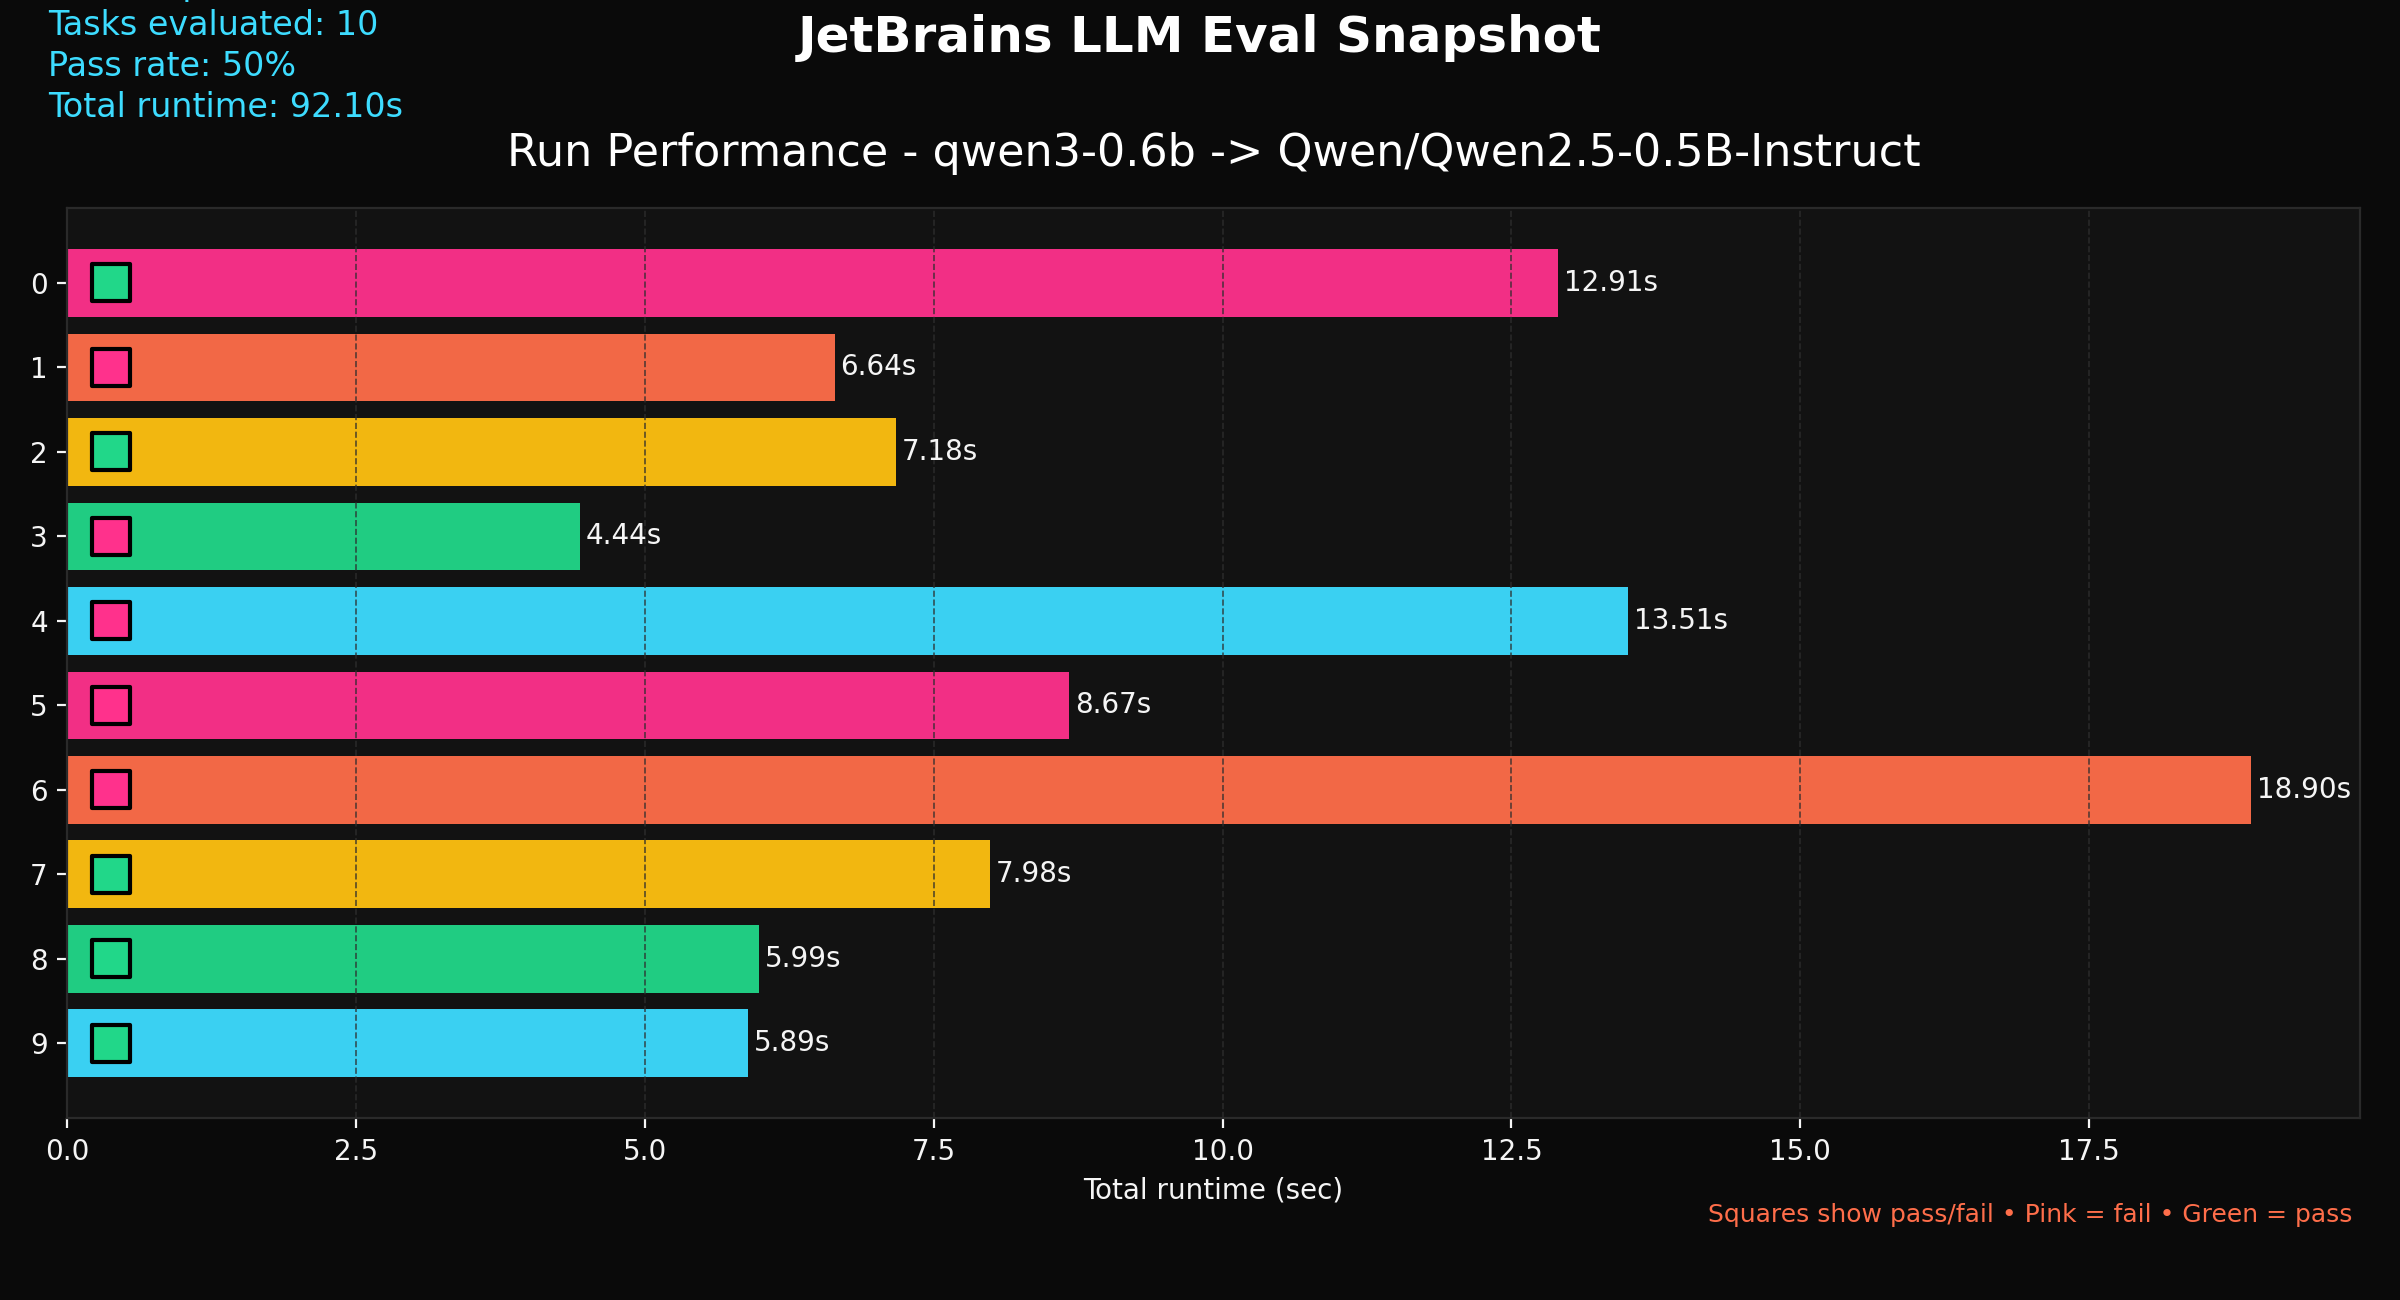
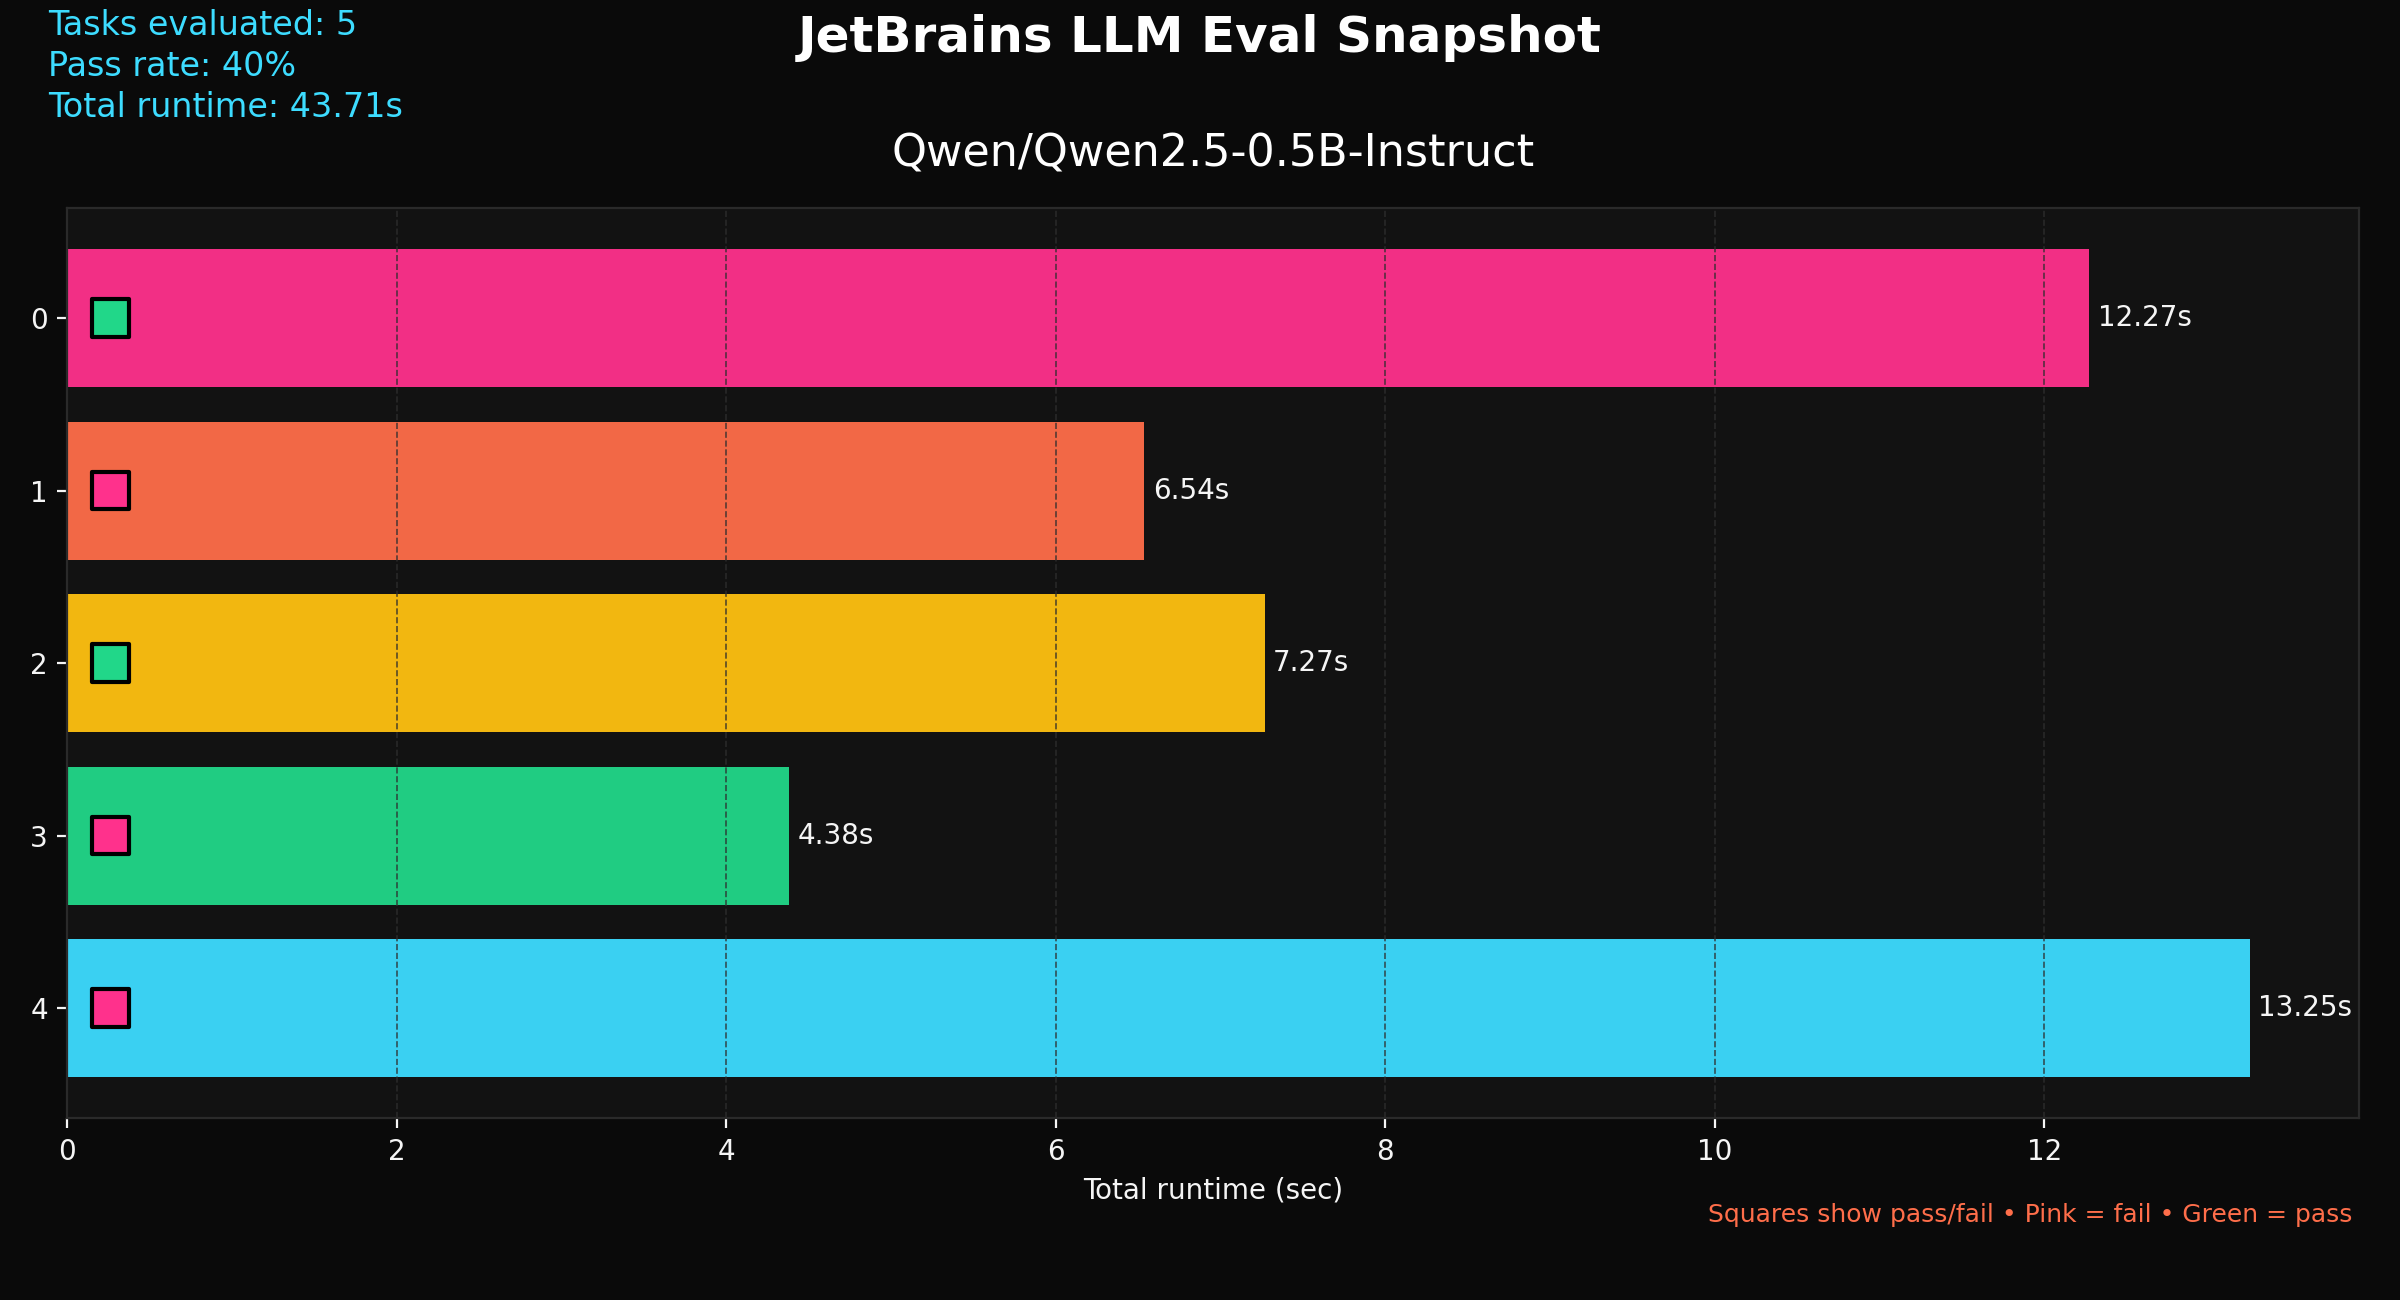
update the visualization

diff --git a/src/visualize_results.py b/src/visualize_results.py
@@ -34,10 +34,6 @@ def infer_model_name(results: List[dict]) -> Optional[str]:
     resolved: Optional[str] = None
     alias: Optional[str] = None
     for entry in results:
-        if alias is None:
-            alias_raw = entry.get("model_alias")
-            if isinstance(alias_raw, str) and alias_raw.strip():
-                alias = alias_raw.strip()
         for key in ("model", "model_id", "model_name"):
             value = entry.get(key)
             if isinstance(value, str) and value.strip():
@@ -53,8 +49,12 @@ def infer_model_name(results: List[dict]) -> Optional[str]:
                         if resolved is None:
                             resolved = value.strip()
                         break
-    if resolved and alias and alias != resolved:
-        return f"{alias} -> {resolved}"
+        if alias is None:
+            alias_raw = entry.get("model_alias")
+            if isinstance(alias_raw, str) and alias_raw.strip():
+                alias = alias_raw.strip()
+    if resolved and "/" not in resolved and alias and "/" in alias:
+        return alias
     return resolved or alias
 
 
@@ -85,10 +85,10 @@ def plot_results(
         task_ids, runtime, color=color_cycle, edgecolor="none", alpha=0.95
     )
     ax_runtime.set_xlabel("Total runtime (sec)", color="#F5F5F5")
-    title = "Run Performance"
     if model_name:
-        title = f"{title} - {model_name}"
-    ax_runtime.set_title(title, color="#FFFFFF", pad=15, fontsize=16)
+        ax_runtime.set_title(model_name, color="#FFFFFF", pad=15, fontsize=16)
+    else:
+        ax_runtime.set_title("", color="#FFFFFF", pad=15, fontsize=16)
     ax_runtime.invert_yaxis()
     ax_runtime.grid(
         True, axis="x", linestyle="--", linewidth=0.6, color="#2E2E2E", alpha=0.8
@@ -119,13 +119,18 @@ def plot_results(
 
     pass_rate = sum(passed) / len(passed) if passed else 0.0
     total_runtime = sum(runtime)
-    model_label = model_name if model_name else "not provided"
-    details_lines = [
-        f"Model: {model_label}",
-        f"Tasks evaluated: {len(task_ids)}",
-        f"Pass rate: {pass_rate:.0%}",
-        f"Total runtime: {total_runtime:.2f}s",
-    ]
+    details_lines = []
+    if model_name:
+        details_lines.append(model_name)
+    else:
+        details_lines.append("Model not provided")
+    details_lines.extend(
+        [
+            f"Tasks evaluated: {len(task_ids)}",
+            f"Pass rate: {pass_rate:.0%}",
+            f"Total runtime: {total_runtime:.2f}s",
+        ]
+    )
 
     fig.text(
         0.5,

diff --git a/run.py b/run.py
@@ -248,12 +248,7 @@ def main() -> None:
             else Path(f"{output_path}.png")
         )
         try:
-            model_label = res.get("model") or cfg.model
-            alias = res.get("model_alias")
-            if alias and alias != model_label:
-                model_for_plot = f"{alias} -> {model_label}"
-            else:
-                model_for_plot = model_label
+            model_for_plot = res.get("model") or cfg.model
             subprocess.run(
                 [
                     sys.executable,
